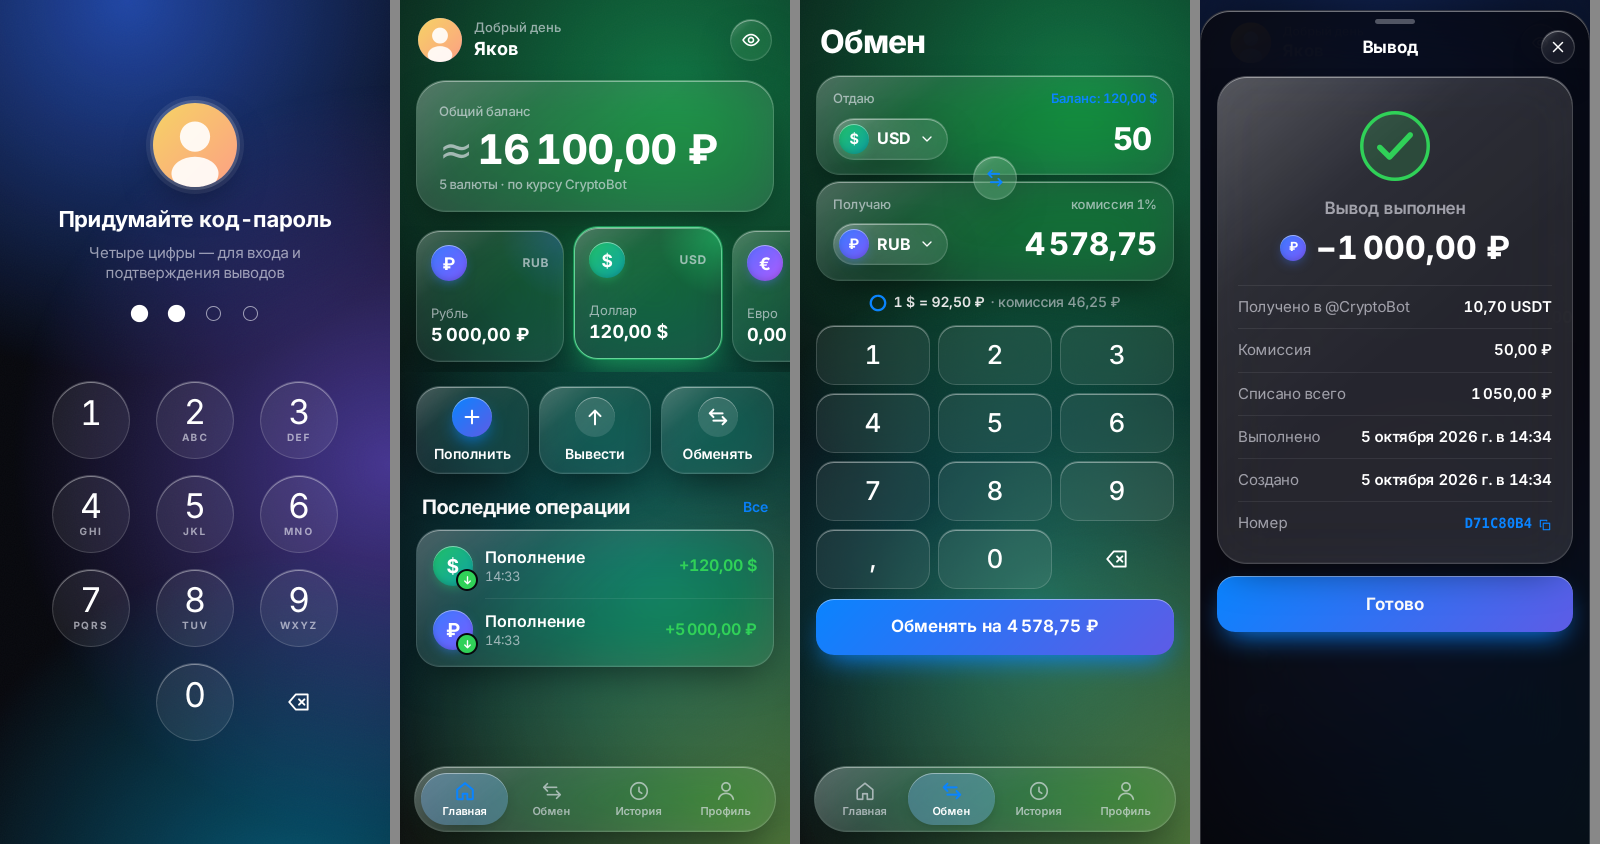
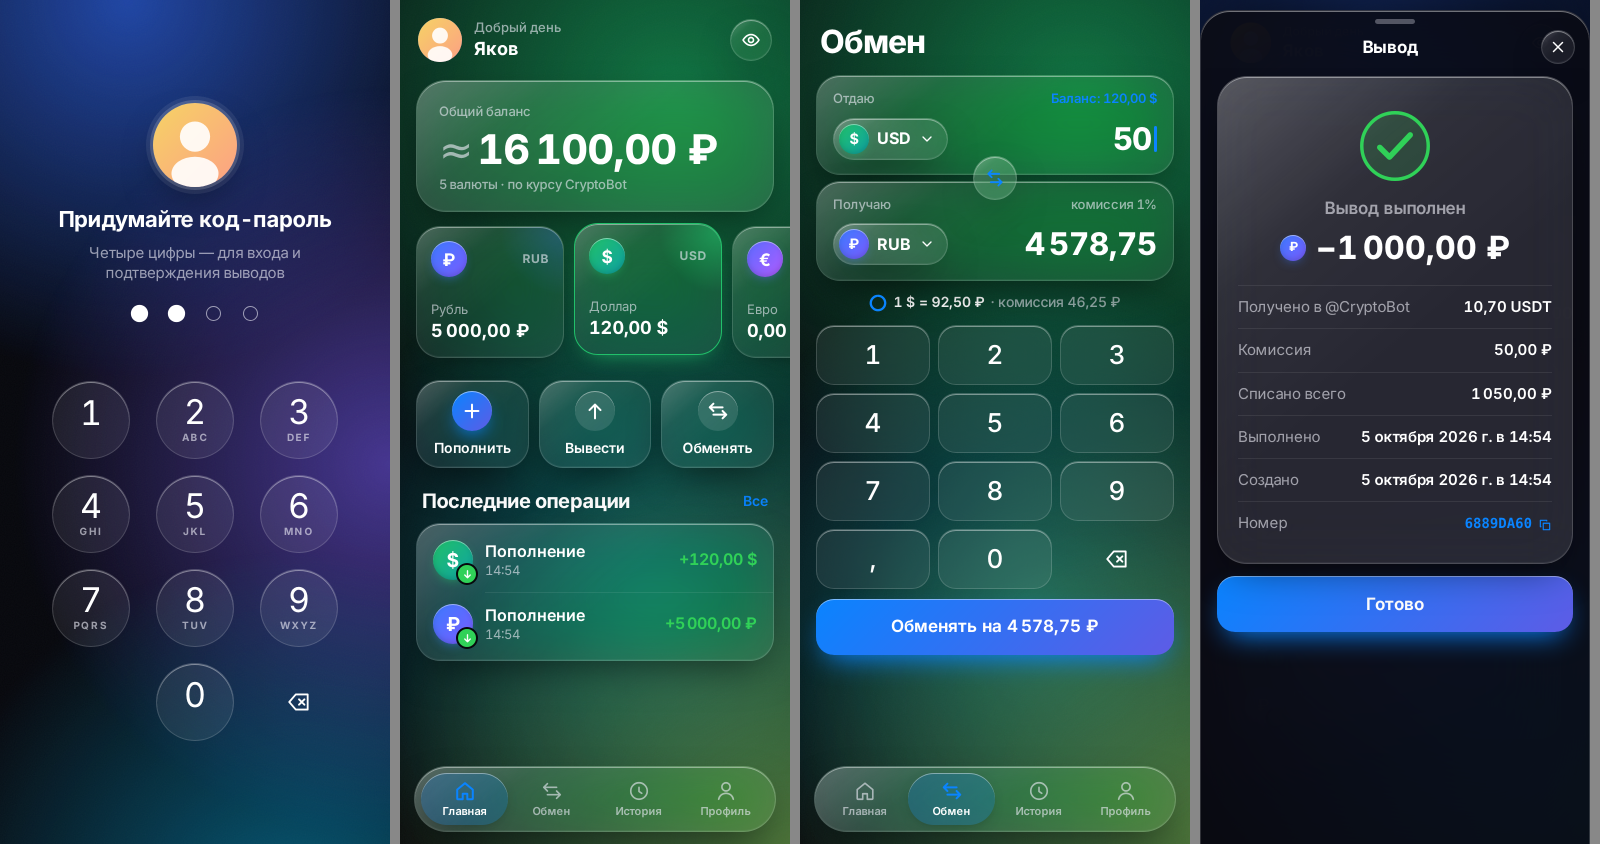
Fix card-row stripe, WebView compatibility and several functional bugs
- Home: the horizontally scrolling currency row clipped the cards' shadows
  into a hard-edged dark band; give shadows room inside the scroller and
  soften them (same for the currency chips in sheets)
- Drop CSS color-mix(): unsupported in older Android WebViews, where sheets
  became transparent and the aurora vanished; use theme tokens instead
- Exchange: "Balance" filled amounts with more decimals than allowed
  (e.g. TON), which the server rejected; round down to the input precision.
  Re-quote instead of failing when the locked rate expired in the background
- Total balance no longer disappears when only an empty account lacks a rate
- Telegram Back button returns from other tabs to Home
- Signed tokens: compare the canonical base64url MAC, so alternative
  spellings of the same bytes are rejected (also fixes a flaky test)
- crypto.randomUUID fallback for older WebViews; brighter swap button;
  bot greeting mentions currencies and exchange

Claude-Session: https://claude.ai/code/session_01GfwALjPeLXvAepvufwVRe4

diff --git a/web/src/styles/app.css b/web/src/styles/app.css
@@ -40,6 +40,9 @@
   --orange: #ff9f0a;
   --aurora-opacity: 0.85;
   --backdrop: rgba(0, 0, 0, 0.45);
+  --sheet-bg: rgba(10, 11, 18, 0.86);
+  --accent-soft: rgba(10, 132, 255, 0.22);
+  --accent-mid: rgba(10, 132, 255, 0.45);
 }
 
 [data-theme='light'] {
@@ -63,6 +66,9 @@
   --orange: #f08c00;
   --aurora-opacity: 0.55;
   --backdrop: rgba(30, 30, 60, 0.18);
+  --sheet-bg: rgba(240, 243, 250, 0.9);
+  --accent-soft: rgba(0, 122, 255, 0.14);
+  --accent-mid: rgba(0, 122, 255, 0.32);
 }
 
 /* ─────────────────────────────── base ─────────────────────────────── */
@@ -152,21 +158,24 @@ p {
 .aurora__blob--1 {
   top: -45vmax;
   left: -30vmax;
-  background: radial-gradient(closest-side, color-mix(in srgb, var(--a1) 75%, transparent), transparent);
+  background: radial-gradient(closest-side, var(--a1), transparent);
+  opacity: 0.75;
   animation: drift1 26s ease-in-out infinite alternate;
 }
 
 .aurora__blob--2 {
   top: 10vmax;
   right: -45vmax;
-  background: radial-gradient(closest-side, color-mix(in srgb, var(--a2) 65%, transparent), transparent);
+  background: radial-gradient(closest-side, var(--a2), transparent);
+  opacity: 0.65;
   animation: drift2 32s ease-in-out infinite alternate;
 }
 
 .aurora__blob--3 {
   bottom: -55vmax;
   left: -10vmax;
-  background: radial-gradient(closest-side, color-mix(in srgb, var(--a3) 55%, transparent), transparent);
+  background: radial-gradient(closest-side, var(--a3), transparent);
+  opacity: 0.55;
   animation: drift3 38s ease-in-out infinite alternate;
 }
 
@@ -379,7 +388,7 @@ p {
   box-shadow:
     inset 0 1px 0 rgba(255, 255, 255, 0.45),
     inset 0 -2px 6px rgba(0, 0, 0, 0.15),
-    0 4px 12px -4px color-mix(in srgb, var(--c1) 70%, transparent);
+    0 4px 12px -6px var(--c1);
 }
 
 /* ─────────────────────────────── home ─────────────────────────────── */
@@ -454,8 +463,10 @@ p {
   overflow-x: auto;
   scroll-snap-type: x mandatory;
   scroll-padding-inline: var(--gutter);
-  margin: 0 calc(var(--gutter) * -1);
-  padding: 4px var(--gutter) 10px;
+  /* A scroller clips everything outside its box, shadows included: leave them room
+     (padding) and take the space back (negative margin) so the layout doesn't shift. */
+  margin: -12px calc(var(--gutter) * -1) -22px;
+  padding: 12px var(--gutter) 30px;
   scrollbar-width: none;
 }
 
@@ -465,6 +476,10 @@ p {
 
 .card {
   flex: 0 0 148px;
+  box-shadow:
+    inset 0 1px 0 var(--glass-hi),
+    inset 0 -1px 0 var(--glass-lo),
+    0 10px 22px -16px rgba(0, 0, 0, 0.6);
   scroll-snap-align: start;
   height: 132px;
   padding: 14px;
@@ -486,23 +501,22 @@ p {
   width: 120px;
   height: 120px;
   border-radius: 50%;
-  background: radial-gradient(closest-side, color-mix(in srgb, var(--c1) 70%, transparent), transparent);
-  opacity: 0.35;
+  background: radial-gradient(closest-side, var(--c1), transparent);
+  opacity: 0.25;
   transition: opacity 0.4s;
   z-index: -1;
 }
 
 .card.is-selected {
-  border-color: color-mix(in srgb, var(--c1) 70%, white);
+  border-color: var(--c1);
   box-shadow:
     inset 0 1px 0 var(--glass-hi),
-    0 0 0 1px color-mix(in srgb, var(--c1) 60%, transparent),
-    0 14px 34px -12px color-mix(in srgb, var(--c1) 80%, transparent);
+    0 10px 22px -14px var(--c1);
   transform: translateY(-3px);
 }
 
 .card.is-selected .card__glow {
-  opacity: 0.85;
+  opacity: 0.6;
 }
 
 .card__top {
@@ -832,7 +846,7 @@ p {
   left: 6px;
   width: calc((100% - 12px) / 4);
   border-radius: 999px;
-  background: color-mix(in srgb, var(--accent) 18%, var(--glass-press));
+  background: var(--accent-soft);
   box-shadow:
     inset 0 1px 0 var(--glass-hi),
     0 4px 14px -6px rgba(0, 0, 0, 0.35);
@@ -894,7 +908,7 @@ p {
   max-width: 560px;
   margin: 0 auto;
   border-radius: 30px 30px 0 0;
-  background: color-mix(in srgb, var(--bg) 80%, transparent);
+  background: var(--sheet-bg);
   -webkit-backdrop-filter: blur(50px) saturate(180%);
   backdrop-filter: blur(50px) saturate(180%);
   border: 1px solid var(--glass-border);
@@ -1028,8 +1042,12 @@ p {
   gap: 8px;
   overflow-x: auto;
   scrollbar-width: none;
-  margin: 0 calc(var(--gutter) * -1);
-  padding: 2px var(--gutter) 6px;
+  margin: -8px calc(var(--gutter) * -1) -14px;
+  padding: 8px var(--gutter) 18px;
+}
+
+.strip__chip {
+  box-shadow: inset 0 1px 0 var(--glass-hi), 0 6px 14px -10px rgba(0, 0, 0, 0.5);
 }
 
 .strip::-webkit-scrollbar {
@@ -1049,7 +1067,7 @@ p {
 
 .strip__chip.is-active {
   background: var(--glass-press);
-  border-color: color-mix(in srgb, var(--accent) 50%, var(--glass-border));
+  border-color: var(--accent-mid);
 }
 
 .amount-field {
@@ -1430,8 +1448,13 @@ p {
   display: grid;
   place-items: center;
   margin: -22px 0 0 -22px;
-  background: var(--glass-press);
-  color: var(--accent);
+  color: #fff;
+  background: linear-gradient(135deg, var(--accent), var(--accent-2));
+  border-color: rgba(255, 255, 255, 0.35);
+  box-shadow:
+    inset 0 1px 0 rgba(255, 255, 255, 0.5),
+    0 0 0 4px var(--bg),
+    0 8px 18px -6px var(--accent);
 }
 
 .fx__swap svg {
@@ -1535,7 +1558,7 @@ p {
 }
 
 .picker__row.is-selected {
-  background: color-mix(in srgb, var(--accent) 16%, transparent);
+  background: var(--accent-soft);
 }
 
 .picker__name {
@@ -1638,7 +1661,7 @@ p {
   inset: 4px auto 4px 4px;
   width: calc(56px + var(--x));
   border-radius: 999px;
-  background: linear-gradient(90deg, color-mix(in srgb, var(--accent) 20%, transparent), color-mix(in srgb, var(--accent) 45%, transparent));
+  background: linear-gradient(90deg, var(--accent-soft), var(--accent-mid));
 }
 
 .slider__label {
@@ -1714,7 +1737,8 @@ p {
 }
 
 .success__circle {
-  fill: color-mix(in srgb, var(--tone) 18%, transparent);
+  fill: var(--tone);
+  fill-opacity: 0.16;
   stroke: var(--tone);
   stroke-width: 2.5;
 }

diff --git a/web/src/screens/Exchange.tsx b/web/src/screens/Exchange.tsx
@@ -8,7 +8,7 @@ import { useToast } from '../components/Toast';
 import { ApiError, api, type Me, newIdempotencyKey, type Quote } from '../lib/api';
 import { symbolOf } from '../lib/currencies';
 import { money } from '../lib/format';
-import { applyKey, formatNumber, fromUnits, normalize, toUnits } from '../lib/money';
+import { applyKey, floorTo, formatNumber, fromUnits, normalize, toUnits } from '../lib/money';
 import { useRefreshWallet } from '../lib/queries';
 import { telegram } from '../lib/telegram';
 
@@ -93,6 +93,12 @@ export function ExchangeScreen({ me, initialFrom, onCurrency }: { me: Me; initia
 
   const execute = async () => {
     if (!q.quote) return;
+    // The app may have slept in the background past the quote's lifetime: re-quote first.
+    if (Date.parse(q.quote.expiresAt) - Date.now() < 1500) {
+      setRefreshTick((n) => n + 1);
+      toast('Курс обновился — проверьте сумму');
+      return;
+    }
     setBusy(true);
     const token = q.quote.quoteToken;
     const key = keyFor.current.get(token) ?? newIdempotencyKey();
@@ -146,7 +152,13 @@ export function ExchangeScreen({ me, initialFrom, onCurrency }: { me: Me; initia
         <div className="fx__panel glass">
           <div className="fx__row">
             <span className="caption">Отдаю</span>
-            <button className="link-btn" onClick={() => setAmount(fromUnits(toUnits(balance, fromAsset.decimals), fromAsset.decimals))}>
+            <button
+              className="link-btn"
+              onClick={() =>
+                // Whole balance, rounded down to what can be typed (crypto may carry more decimals).
+                setAmount(fromUnits(floorTo(toUnits(balance, fromAsset.decimals), fromAsset.decimals, fromAsset.inputDecimals), fromAsset.decimals))
+              }
+            >
               Баланс: {money(balance, from, fromAsset)}
             </button>
           </div>

diff --git a/server/test/wallet.test.ts b/server/test/wallet.test.ts
@@ -480,7 +480,15 @@ describe('lock screen', () => {
     const as = (session: string) =>
       app.inject({ method: 'GET', url: '/api/me', headers: { ...tgHeaders(ALICE), 'x-wallet-session': session } });
     expect((await as(sessionFor(BOB))).json().error.code).toBe('LOCKED');
-    expect((await as(sessionFor(ALICE).replace(/.$/, 'x'))).json().error.code).toBe('LOCKED');
+    const real = sessionFor(ALICE);
+    const flip = (c: string) => (c === 'A' ? 'B' : 'A');
+    const forged = real.slice(0, -5) + flip(real.at(-5)!) + real.slice(-4); // a full-6-bit character of the MAC
+    expect((await as(forged)).json().error.code).toBe('LOCKED');
+    // A non-canonical spelling of the very same MAC bytes is refused as well.
+    const last = real.at(-1)!;
+    const alphabet = 'ABCDEFGHIJKLMNOPQRSTUVWXYZabcdefghijklmnopqrstuvwxyz0123456789-_';
+    const sibling = alphabet[alphabet.indexOf(last) ^ 1]!;
+    expect((await as(real.slice(0, -1) + sibling)).json().error.code).toBe('LOCKED');
     expect((await as(testSigner.sign('session', { u: ALICE }, -1))).json().error.code).toBe('LOCKED');
     // A token signed for another purpose (an exchange quote) is not a session.
     expect((await as(testSigner.sign('quote', { u: ALICE }, 600))).json().error.code).toBe('LOCKED');

diff --git a/server/src/bot/bot.ts b/server/src/bot/bot.ts
@@ -16,10 +16,11 @@ export function createBot(config: Config, log: Logger): Bot {
   bot.command('start', async (ctx) => {
     await ctx.reply(
       [
-        `<b>${APP_NAME}</b> — пополняйте и выводите криптовалюту прямо в Telegram.`,
+        `<b>${APP_NAME}</b> — кошелёк в рублях, долларах, евро, юанях и TON прямо в Telegram.`,
         '',
-        '• Пополнение через @CryptoBot за пару касаний',
-        '• Вывод защищён PIN-кодом',
+        '• Пополнение и вывод через @CryptoBot',
+        '• Обмен валют по рыночному курсу',
+        '• Вход и выводы защищены код-паролем',
         '• Уведомления о каждой операции',
       ].join('\n'),
       { parse_mode: 'HTML', reply_markup: openButton() },

diff --git a/server/src/auth/tokens.ts b/server/src/auth/tokens.ts
@@ -23,8 +23,10 @@ export class TokenSigner {
     if (typeof token !== 'string' || token.length > 2048) return null;
     const [body, mac] = token.split('.');
     if (!body || !mac) return null;
-    const expected = createHmac('sha256', this.key(purpose)).update(body).digest();
-    const actual = Buffer.from(mac, 'base64url');
+    // Compare the canonical text form: base64 has several spellings of the same bytes
+    // (spare bits in the last character), and only the one we issued is accepted.
+    const expected = Buffer.from(createHmac('sha256', this.key(purpose)).update(body).digest('base64url'));
+    const actual = Buffer.from(mac);
     if (actual.length !== expected.length || !timingSafeEqual(actual, expected)) return null;
     try {
       const payload = JSON.parse(Buffer.from(body, 'base64url').toString('utf8')) as T & { exp: number };

diff --git a/web/src/screens/Home.tsx b/web/src/screens/Home.tsx
@@ -31,10 +31,13 @@ export function Home({
   const asset = me.assets.find((a) => a.code === selected) ?? me.assets[0]!;
   const name = me.user.firstName || me.user.username || '';
 
-  // Total in the display currency: market-rate estimate, display only.
+  // Total in the display currency: market-rate estimate, display only. Empty accounts never
+  // need a rate; a non-empty one without a rate makes the total unknown rather than wrong.
   let total: number | null = 0;
   for (const a of me.assets) {
-    const v = approx(me.balances[a.code] ?? '0', a.code, displayCurrency, me.prices);
+    const bal = me.balances[a.code] ?? '0';
+    if (Number(bal) === 0) continue;
+    const v = a.code === displayCurrency ? Number(bal) : approx(bal, a.code, displayCurrency, me.prices);
     if (v === null) {
       total = null;
       break;

diff --git a/web/src/lib/api.ts b/web/src/lib/api.ts
@@ -173,4 +173,12 @@ export const api = {
   exchangeById: (id: string) => request<Exchange>('GET', `/api/exchanges/${id}`),
 };
 
-export const newIdempotencyKey = (): string => crypto.randomUUID();
+/** Random UUID v4; falls back to getRandomValues on WebViews without crypto.randomUUID. */
+export function newIdempotencyKey(): string {
+  if (typeof crypto.randomUUID === 'function') return crypto.randomUUID();
+  const b = crypto.getRandomValues(new Uint8Array(16));
+  b[6] = (b[6]! & 0x0f) | 0x40;
+  b[8] = (b[8]! & 0x3f) | 0x80;
+  const h = [...b].map((x) => x.toString(16).padStart(2, '0')).join('');
+  return `${h.slice(0, 8)}-${h.slice(8, 12)}-${h.slice(12, 16)}-${h.slice(16, 20)}-${h.slice(20)}`;
+}

diff --git a/web/src/lib/nav.tsx b/web/src/lib/nav.tsx
@@ -67,10 +67,11 @@ export function NavProvider({ children }: { children: ReactNode }) {
   }, []);
 
   const hasOverlay = overlays.some((o) => !o.closing);
+  // Telegram's Back closes the top sheet, otherwise returns from another tab to Home.
   useEffect(() => {
-    if (!hasOverlay) return;
-    return telegram.backButton.show(close);
-  }, [hasOverlay, close]);
+    if (hasOverlay) return telegram.backButton.show(close);
+    if (tab !== 'home') return telegram.backButton.show(() => setTabState('home'));
+  }, [hasOverlay, close, tab]);
 
   const value = useMemo<Nav>(
     () => ({ tab, setTab, overlays, open, replace, close, closeAll }),

diff --git a/server/test/unit.test.ts b/server/test/unit.test.ts
@@ -149,5 +149,9 @@ describe('fixed-point rates', () => {
     expect(new TokenSigner('other').verify('session', t)).toBeNull();
     expect(s.verify('session', s.sign('session', { u: 1 }, -1))).toBeNull();
     expect(s.verify('session', 'garbage')).toBeNull();
+    // Flipping a spare bit of the last base64 character keeps the bytes but must not be accepted.
+    const alphabet = 'ABCDEFGHIJKLMNOPQRSTUVWXYZabcdefghijklmnopqrstuvwxyz0123456789-_';
+    const sibling = t.slice(0, -1) + alphabet[alphabet.indexOf(t.at(-1)!) ^ 1];
+    expect(s.verify('session', sibling)).toBeNull();
   });
 });

diff --git a/web/src/screens/Deposit.tsx b/web/src/screens/Deposit.tsx
@@ -110,11 +110,12 @@ export function AwaitPayment({ deposit, me, onPaid }: { deposit: Deposit; me: Me
   });
   const status = q.data.status;
 
+  const { refetch } = q;
   useEffect(() => {
-    const onVisible = () => document.visibilityState === 'visible' && void q.refetch();
+    const onVisible = () => document.visibilityState === 'visible' && void refetch();
     document.addEventListener('visibilitychange', onVisible);
     return () => document.removeEventListener('visibilitychange', onVisible);
-  }, [q]);
+  }, [refetch]);
 
   useEffect(() => {
     if (status === 'paid') {

diff --git a/web/index.html b/web/index.html
@@ -4,7 +4,7 @@
     <meta charset="UTF-8" />
     <meta name="viewport" content="width=device-width, initial-scale=1, maximum-scale=1, viewport-fit=cover, user-scalable=no" />
     <meta name="color-scheme" content="dark light" />
-    <meta name="theme-color" content="#0f0f0d" />
+    <meta name="theme-color" content="#07080d" />
     <link rel="icon" href="/icon.svg" type="image/svg+xml" />
     <title>Tonum Wallet</title>
     <script src="https://telegram.org/js/telegram-web-app.js?59"></script>
